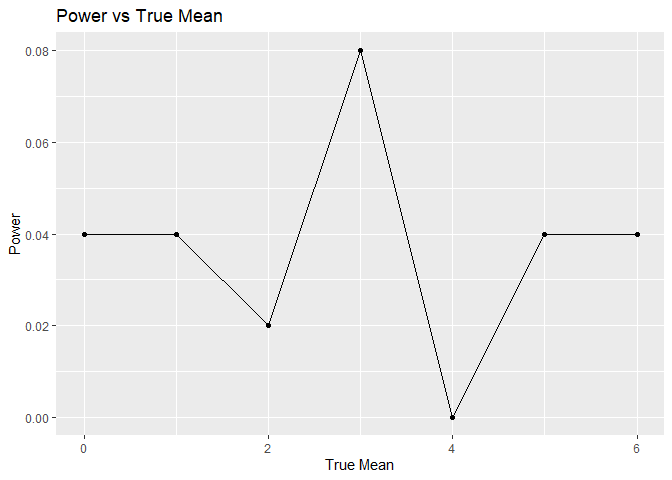
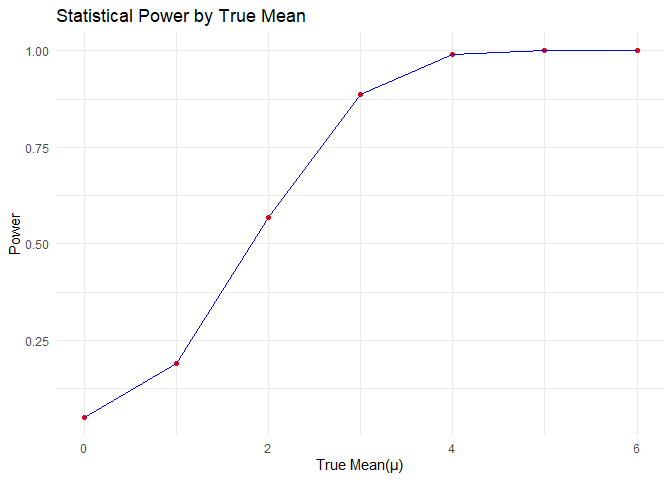
change the 50 to 5000 dataset.

diff --git a/p8105_hw5_yw4251.md b/p8105_hw5_yw4251.md
@@ -122,8 +122,8 @@ sim_mean_test <- function(mu,n=30, sigma = 5) {
   sim_data = tibble(
     x=rnorm(n=n, mean=mu, sd = sigma)
   )
-  test_result = broom::tidy(t.test(sim_data$x, mu=mu))|>
-    select(mu_hat=estimate,p.value)
+  test_result = broom::tidy(t.test(sim_data$x))|>
+    select(mu_hat=estimate, p.value)
   return(test_result)
 }
 
@@ -144,18 +144,21 @@ head(sim_results_df_0)
     ## 5 -1.65   0.0599
     ## 6  1.19   0.229
 
+Repeat simulation for `mu={1,2,3,4,5,6}`.
+
 ``` r
-sim_results_df_1_6 = 
+set.seed(1)
+sim_results_df_0_6 = 
   expand_grid(
     mu = 0:6,
-    iter = 1:50
+    iter = 1:5000
   )|> 
   mutate(
     estimate_df = map(mu, sim_mean_test)
   ) |> 
   unnest(estimate_df)
 
-power_analysis=sim_results_df_1_6|>
+power_analysis=sim_results_df_0_6|>
   group_by(mu)|>
   summarise(
     power=mean(p.value<0.05),
@@ -164,12 +167,61 @@ power_analysis=sim_results_df_1_6|>
     )
 ```
 
+Make plot to show the relationship between the effect size (represented
+by the true value of μ) and the statistical power.
+
 ``` r
 power_analysis|>
   ggplot(aes(x=mu,y=power))+
-  geom_point() +
-  geom_line() +
-  labs(title = "Power vs True Mean", x = "True Mean", y = "Power")
+  geom_point(colour="red") +
+  geom_line(colour="blue") +
+  labs(title = "Statistical Power by True Mean", x = "True Mean(μ)", y = "Power")+
+  theme_minimal()
 ```
 
-![](p8105_hw5_yw4251_files/figure-gfm/unnamed-chunk-6-1.png)<!-- -->
+![](p8105_hw5_yw4251_files/figure-gfm/unnamed-chunk-6-1.png)<!-- --> The
+larger the true mean `μ`, the greater the power of the test. Initially,
+the power is almost negligible, but it surges significantly as the true
+mean grows, eventually approaching a power value of 1. This indicates
+that the larger the discrepancy from the null hypothesis, the more
+effective the test is at identifying an actual effect, showing a
+positive correlation between effect size and test power.
+
+Now, plot average estimate of u.
+
+``` r
+ggplot(power_analysis, aes(x = mu)) +
+  geom_line(aes(y = avg_mu_hat, color = "Average μ Estimate")) +
+  geom_point(aes(y = avg_mu_hat, color = "Average μ Estimate") )+
+  geom_line(aes(y = avg_mu_hat_rejected, color = "Average μ Estimate (Null Rejected)")) +
+  geom_point(aes(y = avg_mu_hat_rejected, color = "Average μ Estimate (Null Rejected)")) +
+  labs(
+    title = "Average Estimates of μ", 
+    x = "True Value of μ", 
+    y = "Average Estimate of μ",
+    color = "Estimate Type"
+  ) +
+  theme_minimal() +
+  theme(legend.position = "bottom")+
+  scale_color_manual(values = c("Average μ Estimate" = "#e7298a", "Average μ Estimate (Null Rejected)" = "#7570b3"))
+```
+
+![](p8105_hw5_yw4251_files/figure-gfm/unnamed-chunk-7-1.png)<!-- -->
+
+No, the sample average of $\hat\mu$ across tests for which the null is
+rejected is not approximately equal to the true value of $\mu$,
+especially at lower true mean values. As the true mean $\mu$ increases,
+the average estimated $\hat\mu$ from tests where the null hypothesis is
+rejected approaches the actual value, due to the positive correlation
+between the magnitude of the effect and the power of the test. At a true
+mean of 0, the average $\hat\mu$ from rejected tests is close to 0,
+influenced by a large number of trials and the central limit theorem. As
+the true mean increases, more tests reject the null hypothesis, aligning
+the sample mean with the true mean, especially noticeable at higher true
+means.
+
+For rejected tests, the average $\hat\mu$ is typically higher than the
+true $\mu$, especially at smaller true mean values. This is because
+rejections occur when sample means significantly differ from the null
+hypothesis mean of zero. With larger true means, the average $\hat\mu$
+aligns more closely with $\mu$.
